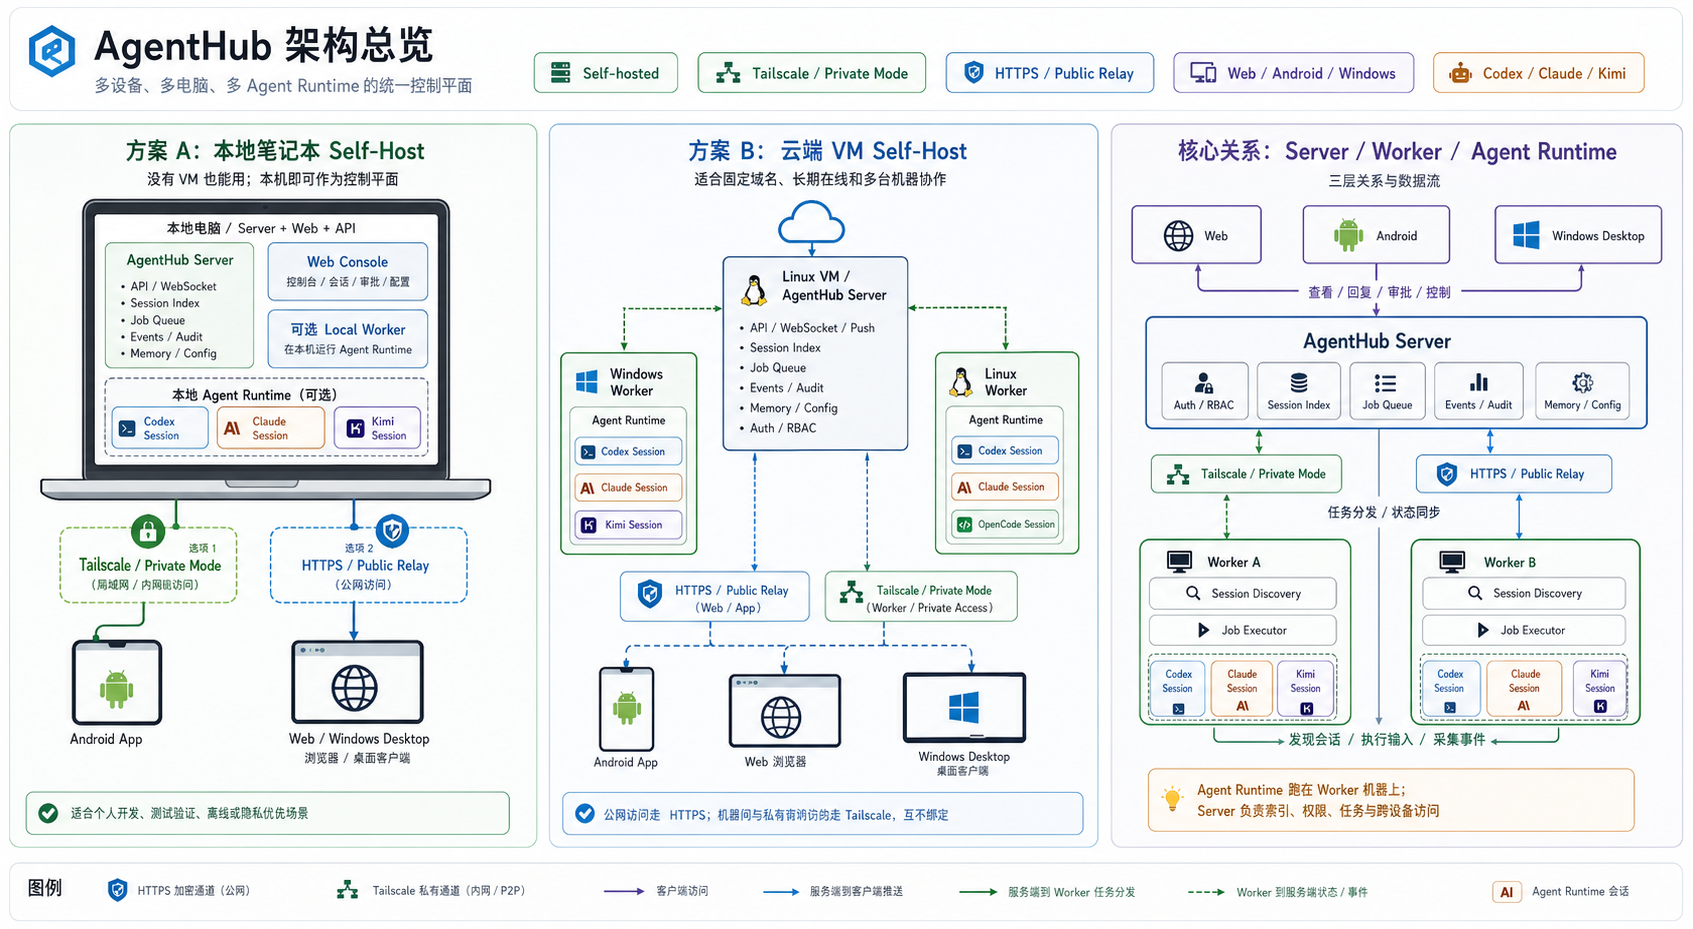
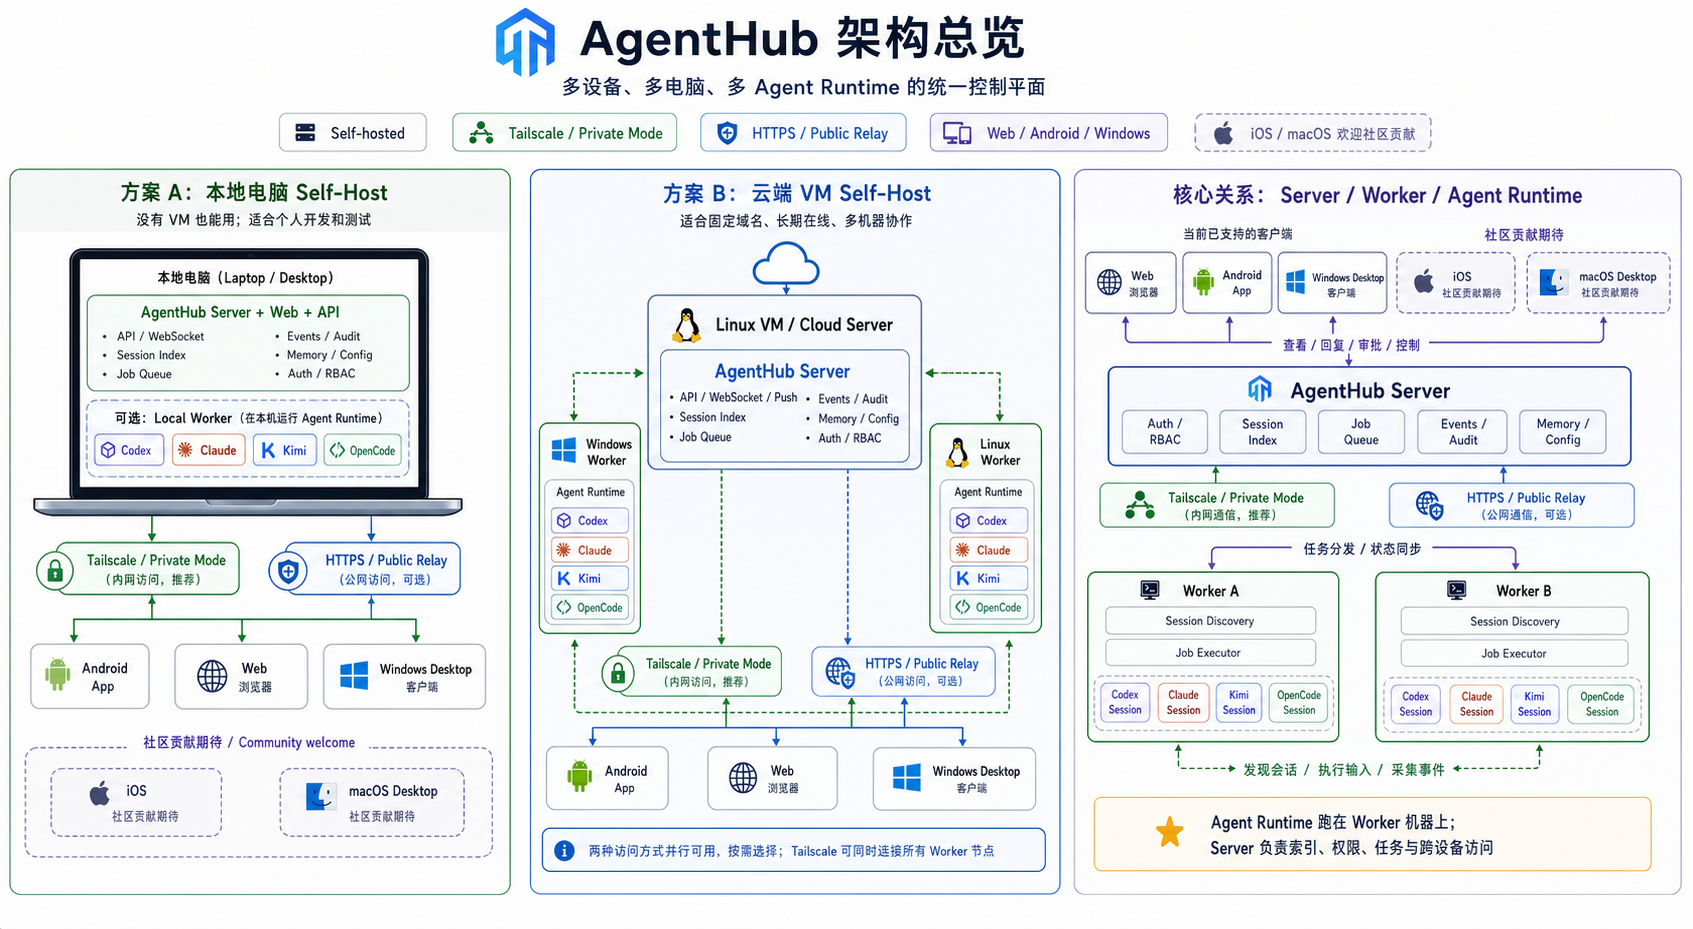
docs: clarify deployment scenarios and platform roadmap (#9)

Changed region(s): [[0.0, 0.0, 1.0, 0.9677]]

diff --git a/README.md b/README.md
@@ -14,7 +14,7 @@
 
 AgentHub 用来统一管理你自己机器上的 Codex、Claude、Kimi、OpenCode 等本地 agent runtime。
 
-你可以把 server 跑在笔记本、本地工作站或 VM 上，通过 Tailscale 或自己的 HTTPS 域名接入；然后在 Web、Android、Windows 桌面端统一控制多台电脑、多条终端 session、多个 agent backend。
+你可以把 server 跑在笔记本、本地工作站或 VM 上，通过 Tailscale private mode 或 HTTPS public relay 接入；然后在 Web、Android、Windows 桌面端统一控制多台电脑、多条终端 session、多个 agent backend。
 
 AgentHub 不是托管 SaaS，也不是任意远程 shell。agent 继续运行在你的机器上，使用你的文件、工具和运行环境；AgentHub 负责会话收件箱、控制界面、worker 接入和审计记录。
 
@@ -26,7 +26,23 @@ AgentHub 不是托管 SaaS，也不是任意远程 shell。agent 继续运行在
 - **多机器控制。** Windows 和 Linux worker 都可以接入，消息、健康检查和任务会路由到对应机器。
 - **手机和桌面都能用。** Web、Android APK、Windows 桌面端都可以接入同一个 AgentHub server；其中 Android APK 首启会先要求填写 server URL。
 - **Tailscale-first 私有模式。** 不需要把 worker 端口暴露到公网，也能从手机控制本机 agent。
+- **Public relay 公开入口。** 如果你有域名和 HTTPS 反代，也可以把 Web/App 入口放到公网，worker 仍然可以只走私网或出站连接。
 - **配置优先。** 语音识别、服务器地址、worker 根目录、provider 密钥都走配置，不写死维护者环境。
+
+## 典型使用场景
+
+- **只有一台主力电脑。** 直接在 Windows、macOS 或 Linux 上跑 AgentHub server，通过 Tailscale 地址让手机和桌面端接入；worker 可以和 server 在同一台机器上。
+- **一台云端 VM + 多台本地电脑。** VM 提供稳定 HTTPS 入口，本地 Windows / Linux worker 通过 Tailscale private mode 或 public relay 接入，适合长期在线和多机器协作。
+- **手机查看和轻量控制。** Android APK 首启填写你的 server URL，之后用同一个账号查看 session、发回复、处理审批和查看状态。
+- **不想暴露 worker。** 只把 Web/API 入口暴露给 HTTPS，worker 继续通过 Tailscale 或出站连接通信，不开放 SSH、数据库或 worker 端口。
+- **给工程 agent 部署。** 把 [Deployment brief template](docs/DEPLOYMENT_BRIEF.example.json) 填好，再让 Codex / Claude Code 按 [AI deployment runbook](docs/AI_DEPLOYMENT_RUNBOOK.md) 执行。
+
+小技巧：
+
+- 本机 server 场景下，Android 里优先填 Tailscale DNS 或 `100.x.y.z` 地址，避免局域网 IP 变化。
+- 公网 VM 场景下，Web/App 入口必须使用 HTTPS；普通公网 `http://` 不应该用于登录态。
+- worker 可以和 server 同机，也可以分布在多台电脑上；AgentHub 只负责任务路由和状态同步，agent runtime 仍然使用 worker 本机环境。
+- iOS client 和 macOS desktop 当前不是 first-party 支持面，但 `CONTRIBUTING.md` 已经放了贡献提示词和约束，欢迎社区补齐。
 
 ## 快速开始
 

diff --git a/README.en.md b/README.en.md
@@ -14,7 +14,7 @@
 
 AgentHub unifies Codex, Claude, Kimi, OpenCode, and other local agent runtimes across your own machines.
 
-Run the server on a laptop or a VM. Connect through Tailscale or your own HTTPS domain. Control many computers, many terminal sessions, and many agent backends from Web, Android, or Windows desktop.
+Run the server on a laptop or a VM. Connect through Tailscale private mode or an HTTPS public relay. Control many computers, many terminal sessions, and many agent backends from Web, Android, or Windows desktop.
 
 AgentHub is not a hosted SaaS and not a generic remote shell. Your agents keep running on your machines, with your files, your tools, and your runtime environment. AgentHub is the session inbox, control surface, worker relay, and audit trail around them.
 
@@ -26,7 +26,23 @@ Architecture and deployment topology: [Architecture diagrams](docs/ARCHITECTURE.
 - **Multi-machine control.** Register Windows and Linux workers, then route session input and health jobs to the right machine.
 - **Phone and desktop access.** Use Web, Android APK, or Windows desktop to continue work away from the terminal. The Android APK asks for your server URL on first launch before showing login.
 - **Tailscale-first private mode.** Start without opening worker ports to the public internet.
+- **HTTPS public relay.** If you have a domain and reverse proxy, expose the Web/App entry through HTTPS while workers still use private networking or outbound-only connections.
 - **Configuration-first setup.** Voice ASR, server URL, worker roots, and provider credentials are configuration, not hardcoded maintainer defaults.
+
+## Common Scenarios
+
+- **One main machine.** Run AgentHub server directly on Windows, macOS, or Linux. Point your phone and desktop client at the Tailscale URL. The worker can run on the same machine.
+- **Cloud VM plus local workers.** Put the server on a small VM with HTTPS. Connect Windows/Linux workers through Tailscale private mode or public relay for always-on access and multi-machine coordination.
+- **Phone-based check-ins.** Install the Android APK, enter your own server URL on first launch, then use the same account to inspect sessions, reply, approve prompts, and check worker state.
+- **No exposed workers.** Expose only the Web/API entry through HTTPS. Keep worker ports, SSH, and databases private.
+- **Agent-assisted deployment.** Fill in the [Deployment brief template](docs/DEPLOYMENT_BRIEF.example.json), then let Codex / Claude Code follow the [AI deployment runbook](docs/AI_DEPLOYMENT_RUNBOOK.md).
+
+Tips:
+
+- For local-server setups, prefer a Tailscale DNS name or `100.x.y.z` address in Android so LAN IP changes do not break the app.
+- For public VM setups, use HTTPS for Web/App login; do not use plain public `http://` for authenticated access.
+- A worker can live on the same machine as the server or on many separate machines. AgentHub routes jobs and syncs state; agent runtimes still use the worker's local environment.
+- iOS client and macOS desktop are not first-party surfaces yet. Contribution prompts and guardrails are already in `CONTRIBUTING.md`.
 
 ## Getting Started
 

diff --git a/docs/ARCHITECTURE.md b/docs/ARCHITECTURE.md
@@ -9,11 +9,14 @@
 - **方案 A：本地笔记本 Self-Host**
   - 适合没有 VM、已经在用 Tailscale 的个人环境
   - 本机既可以跑 `AgentHub Server`，也可以同时跑 `Local Worker`
-  - 手机、Web、Windows 桌面端通过本机地址或 Tailscale 地址接入
+  - 手机、Web、Windows 桌面端通过本机地址、Tailscale 地址或可选 HTTPS 入口接入
 - **方案 B：云端 VM Self-Host**
   - 适合固定域名、长期在线、多台机器协作
-  - Linux VM 负责对外提供 HTTPS 入口
-  - Windows / Linux worker 继续跑在各自机器上，通过 public relay 或 Tailscale private mode 接入
+  - Linux VM 可以通过 HTTPS public relay 对外提供 Web/App 入口，也可以只放在 Tailscale private mode 里
+  - Windows / Linux worker 继续跑在各自机器上，通过 Tailscale private mode 或 public relay 接入
+- **社区贡献期待**
+  - iOS client 和 macOS desktop 当前不是 first-party 支持面
+  - `CONTRIBUTING.md` 里已有平台贡献提示词和配置化约束
 - **核心关系：Server / Worker / Agent Runtime**
   - `AgentHub Server` 负责认证、权限、会话索引、任务队列、事件审计、配置和 memory
   - `Worker` 负责发现本机 session、执行任务、回传状态
@@ -59,6 +62,7 @@
 - 只有一台主要工作电脑
 - 不想买 VM
 - 想直接通过 Tailscale 从手机控制本机 agent
+- 或者想先在本机验证，再决定是否迁移到 VM
 
 配套文档：
 
@@ -72,6 +76,7 @@
 - 需要稳定公网域名
 - 想把 Web / App 入口长期在线暴露出来
 - 有多台 worker 机器需要接入
+- 或者想把云端 VM 放进 Tailscale，只给自己和团队访问
 
 配套文档：
 
